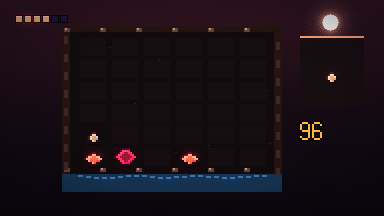
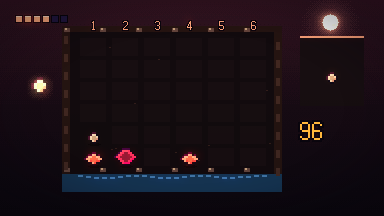
feat: make the ferry games punish the greedy line (#37)
An edge stamp on 虾印 no longer counts as an approval. 虾网 opens
with five tears and three threads, so the knot you tie matters. 虾熔
shows the shell in hand, and a points-only drop still plugs the well.

diff --git a/games/claw-stamp/src/engine.ts b/games/claw-stamp/src/engine.ts
@@ -2,8 +2,9 @@
  * 虾印 / Claw Stamp.
  *
  * A night ferry. Twelve passes, a public kind, and a fare. Edge fares pay more
- * and cost a strike if you stamp them. One pardon waives the fare. Listening
- * spends patience and only rewrites an edge when the detail says so.
+ * and cost a strike if you stamp them, and that stamp does not count as an
+ * approval. One pardon waives the fare and does count. Listening spends
+ * patience and only rewrites an edge when the detail says so.
  */
 
 import {
@@ -54,9 +55,9 @@ export interface StampState {
 const TOTAL = 12;
 
 function rules(difficulty: Difficulty): { quota: number; patience: number; strikeLimit: number } {
-  if (difficulty === 'easy') return { quota: 6, patience: 17, strikeLimit: 4 };
+  if (difficulty === 'easy') return { quota: 5, patience: 17, strikeLimit: 4 };
   if (difficulty === 'hard') return { quota: 8, patience: 13, strikeLimit: 2 };
-  return { quota: 7, patience: 14, strikeLimit: 3 };
+  return { quota: 6, patience: 14, strikeLimit: 3 };
 }
 
 function difficultyOf(value: string | undefined): Difficulty {
@@ -188,7 +189,7 @@ export function statusOf(state: StampState): StatusView {
 
 function stampDetail(kind: Kind, fare: number): string {
   if (kind === 'clear') return `盖章。合法，船资 ${fare}，不记过。`;
-  if (kind === 'edge') return `盖章。擦边，船资 ${fare}，记过 +1，连段中断。`;
+  if (kind === 'edge') return `盖章。擦边，船资 ${fare}，记过 +1，不算放行，连段中断。`;
   return '盖章。禁行，记过 +1，没有船资。';
 }
 
@@ -204,16 +205,22 @@ function listenDetail(kind: Kind): string {
   return '细看。禁行不会变，花 2 耐心。';
 }
 
+function canListen(state: StampState): boolean {
+  const resolvesLeft = state.total - state.index;
+  return state.patience - 2 >= resolvesLeft;
+}
+
 export function suggest(state: StampState): string {
   const traveler = state.traveler;
   if (!traveler || state.outcome !== 'ongoing') return 'stamp';
   if (traveler.kind === 'clear') return 'stamp';
   if (traveler.kind === 'banned') return 'refuse';
-  const need = state.approvals < state.quota;
-  const danger = state.strikes >= state.strikeLimit - 1;
-  if (need && state.pardons > 0) return 'pardon';
-  if (need && !danger) return 'stamp';
-  if (need && danger && state.patience >= 3) return 'listen';
+  const nextFare = state.next?.kind === 'edge' ? state.next.fare : 0;
+  const savePardon = state.pardons > 0 && nextFare > traveler.fare;
+  if (savePardon && canListen(state)) return 'listen';
+  if (savePardon) return 'refuse';
+  if (state.pardons > 0) return 'pardon';
+  if (canListen(state)) return 'listen';
   return 'refuse';
 }
 
@@ -300,7 +307,6 @@ export function act(state: StampState, actionId: string): ActionResult {
       state.fares += traveler.fare;
       bumpStreak(state);
     } else if (traveler.kind === 'edge') {
-      state.approvals += 1;
       state.fares += traveler.fare;
       state.strikes += 1;
       state.streak = 0;
@@ -394,7 +400,7 @@ export function recapOf(state: StampState) {
     timeline: state.timeline.length ? [...state.timeline] : ['还没有旅客离窗'],
     lessons: [
       `本局放行 ${state.approvals}，拦截 ${state.catches}，记过 ${state.strikes}，误判 ${state.wrongs}。`,
-      `擦边船资更高。盖擦边会记过。特赦剩余 ${state.pardons}。细看 ${state.listens} 次。`,
+      `擦边船资更高。盖擦边会记过，而且不算放行。特赦剩余 ${state.pardons}。细看 ${state.listens} 次。`,
       `最好连段 ${state.bestStreak}。合法盖章、禁行拒签和特赦才延续连段。`,
     ],
     memoryPrompt:

diff --git a/games/claw-net/tests/engine.test.ts b/games/claw-net/tests/engine.test.ts
@@ -34,7 +34,7 @@ describe('claw-net engine', () => {
     expect(fresh(2).rng).toHaveLength(4);
     const again = fresh(4);
     expect(JSON.parse(JSON.stringify(again))).toEqual(again);
-    expect(countKind(fresh(1).cells, 'torn')).toBe(3);
+    expect(countKind(fresh(1).cells, 'torn')).toBe(5);
   });
 
   it('wets a sound knot between two tears and rips a wet knot on the next pulse', () => {
@@ -61,7 +61,7 @@ describe('claw-net engine', () => {
     const x = torn % 5;
     const y = Math.floor(torn / 5);
     act(state, `tie:${x}:${y}`);
-    expect(state.thread).toBe(11);
+    expect(state.thread).toBe(2);
     act(state, 'haul');
     expect(state.basket).toBeGreaterThan(0);
     expect(state.night).toBe(2);
@@ -94,6 +94,22 @@ describe('claw-net engine', () => {
     }
     expect(mended).toBeGreaterThanOrEqual(10);
     expect(rushed).toBeLessThan(mended);
+    let ordered = 0;
+    for (let seed = 1; seed <= 12; seed += 1) {
+      const state = fresh(seed);
+      let guard = 0;
+      while (state.outcome === 'ongoing' && guard < 80) {
+        const index =
+          state.thread > 0
+            ? state.cells.findIndex((cell) => cell === 'torn' || cell === 'wet')
+            : -1;
+        const id = index >= 0 ? `tie:${index % 5}:${Math.floor(index / 5)}` : 'haul';
+        act(state, id);
+        guard += 1;
+      }
+      if (state.outcome === 'won') ordered += 1;
+    }
+    expect(ordered).toBeLessThanOrEqual(3);
   });
 
   it('scores zero on abort and pays the documented win formula', () => {

diff --git a/games/claw-stamp/tests/engine.test.ts b/games/claw-stamp/tests/engine.test.ts
@@ -56,11 +56,12 @@ describe('claw-stamp engine', () => {
     expect(state.strikes).toBe(1);
     expect(state.streak).toBe(0);
     expect(state.fares).toBe(6);
+    expect(state.approvals).toBe(0);
     state.traveler = { name: '网尾', kind: 'edge', fare: 5 };
     act(state, 'pardon');
     expect(state.pardons).toBe(0);
     expect(state.fares).toBe(6);
-    expect(state.approvals).toBe(2);
+    expect(state.approvals).toBe(1);
     expect(state.streak).toBe(1);
     expect(actionsOf(state).some((action) => action.id === 'pardon')).toBe(false);
   });
@@ -115,6 +116,21 @@ describe('claw-stamp engine', () => {
     }
     expect(careful).toBeGreaterThanOrEqual(12);
     expect(greedy).toBeLessThan(careful);
+    let fare = 0;
+    for (let seed = 1; seed <= 12; seed += 1) {
+      const fareLine = play(fresh(seed), (state) => {
+        const traveler = state.traveler;
+        if (!traveler || traveler.kind === 'clear') return 'stamp';
+        if (traveler.kind === 'banned') return 'refuse';
+        return traveler.fare >= 5 ? 'stamp' : 'refuse';
+      });
+      if (fareLine.outcome === 'won') fare += 1;
+    }
+    let carefulDozen = 0;
+    for (let seed = 1; seed <= 12; seed += 1) {
+      if (play(fresh(seed), suggest).outcome === 'won') carefulDozen += 1;
+    }
+    expect(carefulDozen).toBeGreaterThanOrEqual(fare + 5);
   });
 
   it('scores zero until the run ends, including an abort', () => {

diff --git a/games/claw-net/src/engine.ts b/games/claw-net/src/engine.ts
@@ -48,9 +48,9 @@ function rules(difficulty: Difficulty): {
   threadGain: number;
   quota: number;
 } {
-  if (difficulty === 'easy') return { thread: 14, threadCap: 16, threadGain: 4, quota: 28 };
-  if (difficulty === 'hard') return { thread: 10, threadCap: 12, threadGain: 2, quota: 44 };
-  return { thread: 12, threadCap: 14, threadGain: 3, quota: 36 };
+  if (difficulty === 'easy') return { thread: 8, threadCap: 10, threadGain: 3, quota: 24 };
+  if (difficulty === 'hard') return { thread: 4, threadCap: 6, threadGain: 1, quota: 32 };
+  return { thread: 3, threadCap: 6, threadGain: 2, quota: 24 };
 }
 
 function idx(x: number, y: number): number {
@@ -115,7 +115,7 @@ export function createRun(options: { seed: number; difficulty?: string }): NetSt
   const cells: Knot[] = Array.from({ length: NET_W * NET_H }, () => 'tied');
   for (const index of rng.sample(
     cells.map((_, i) => i),
-    3,
+    5,
   ))
     cells[index] = 'torn';
   return {

diff --git a/games/claw-melt/tests/engine.test.ts b/games/claw-melt/tests/engine.test.ts
@@ -102,6 +102,25 @@ describe('claw-melt engine', () => {
     }
     expect(careful).toBeGreaterThanOrEqual(8);
     expect(stack).toBeLessThan(careful);
+    let points = 0;
+    for (let seed = 1; seed <= 12; seed += 1) {
+      const greedy = fresh(seed);
+      let guard = 0;
+      while (greedy.outcome === 'ongoing' && guard < 40) {
+        let best = 'drop:0';
+        let bestPoints = -1;
+        for (let x = 0; x < 6; x += 1) {
+          const preview = previewDrop(greedy, x);
+          if (!preview || preview.points <= bestPoints) continue;
+          bestPoints = preview.points;
+          best = `drop:${x}`;
+        }
+        act(greedy, best);
+        guard += 1;
+      }
+      if (greedy.outcome === 'won') points += 1;
+    }
+    expect(points).toBeLessThanOrEqual(2);
   });
 
   it('scores zero on an abort and a positive integer after a finished run', () => {

diff --git a/web/src/games/claw-melt.ts b/web/src/games/claw-melt.ts
@@ -165,6 +165,14 @@ function createScene(): GameScene<MeltState> {
       if (next) drawText(g, next, 332, 40, { color: '#fff4d6', align: 'center' });
       const name = say(f, SHELL[state.piece] ?? '');
       if (name) drawText(g, name, 20, 48, { color: '#fff4d6', align: 'left', outline: '#140c08' });
+      blit(g, shell(state.piece), 40, 86, { scale: 3, anchor: 'c' });
+      glow(g, 40, 86, 16, '#ffb08a', 0.35);
+      for (let x = 0; x < WELL_W; x += 1) {
+        drawText(g, String(x + 1), OX + x * CW + CW / 2, OY - 16, {
+          color: f.focus?.id === `drop:${x}` ? '#fff6dc' : '#ffb08a',
+          align: 'center',
+        });
+      }
       pips(g, 16, 16, state.winSize, state.maxSize, '#ffb08a', -1, t);
       drawText(g, String(state.points), 300, 120, { color: '#ffc24a', align: 'left', scale: 2 });
     },

diff --git a/docs/plans/2026-11-15-ferry-depth.md b/docs/plans/2026-11-15-ferry-depth.md
@@ -1,0 +1,41 @@
+# Ferry depth — 虾印, 虾熔, 虾网, 虾节
+
+## Goal
+
+After playing the eight games on the live site, the weakest thing on the first four is depth, not the picture. A careful line must beat a greedy line by a wide margin, and a test has to say so.
+
+## What the live play showed
+
+- 虾印: kind and fare are public, and a fare-greedy line still sails 5 of 12 seeds. Suggest sails 11.
+- 虾熔: suggest already sails 12 of 12 against a points-only drop, but the test only stacks column 0. The current shell is invisible until a column is hovered.
+- 虾网: tying knots in board order wins the same 12 seeds as suggest. Thread is long enough that the knot you pick does not matter.
+- 虾节: suggest knocks out 12 of 12. Committing the resting phrase wins 0. No test says that.
+
+## Scope
+
+- 虾印: stamping an edge keeps the fare and the strike, and does not count as an approval. Suggest pardons or rereads instead of stamping the edge.
+- 虾熔: test the points-only line. Draw the current shell and the column numbers without a hover.
+- 虾网: shorter thread, one more opening tear. Suggest still fills the basket. A board-order tie does not.
+- 虾节: test an immediate commit against suggest.
+
+No catalog ids, no relay allowlist, no other games.
+
+## Assumptions
+
+- The public kind on 虾印 stays public. The new decision is whether the fare is worth a strike that does not fill the quota.
+- Score formulas stay. Only what counts as an approval changes.
+
+## Risks
+
+- A tighter net can make suggest lose. The survey has to stay at least 8 of 12 before the test is locked.
+- Edge-stamp tests that expected an approval need the new count.
+
+## Checklist
+
+- [x] Stamp rule and suggest
+- [x] Net thread and opening tears
+- [x] Melt shell, column numbers, points-only test
+- [x] Beat commit test (already in the engine suite: four rests win 0)
+- [x] READMEs, changelog, i18n
+- [x] lint, check, test
+- [x] One live-shaped `new → act → recap` on the dev server

diff --git a/games/claw-net/README.md b/games/claw-net/README.md
@@ -2,7 +2,7 @@
 
 `claw-net`
 
-五乘四的夜网。两个破洞挨着，完好的结会变湿；湿结再挨着破洞就会裂开；湿结旁边没有破洞时会干回去。补一结花一根线。剪一结不再蔓延，这格也没有鱼。收网按完好减两倍破洞计鱼，然后夜里加线并新开两个破洞。破洞到八张网就破。
+五乘四的夜网，开局五个破洞。两个破洞挨着，完好的结会变湿；湿结再挨着破洞就会裂开；湿结旁边没有破洞时会干回去。线不够把每个洞都补上，所以要先补会裂开的那一结。补一结花一根线。剪一结不再蔓延，这格也没有鱼。收网按完好减两倍破洞计鱼，然后夜里加线并新开两个破洞。破洞到八张网就破。
 
 人在网页里玩。Agent 通过同一个页面的 Web MCP（页内或远程 relay）玩。引擎是确定性的：同一 seed、同一动作序列、同一版本，结果相同。
 

diff --git a/CHANGELOG.md b/CHANGELOG.md
@@ -7,6 +7,13 @@
   prefer leans the next gust by 1. Stow shows the next three slips, and a
   mark is worth spending when that order arrives after the spoil age. Score
   formulas are unchanged. Those two games are `meta.version` `4.1.0`.
+- `虾印` no longer counts an edge stamp as an approval. The fare and the
+  strike still land. Suggest pardons or rereads that guest. A line that
+  stamps high fares loses the night.
+- `虾网` opens with five tears and a shorter thread. Suggest still fills
+  the basket. Tying knots in board order does not.
+- `虾熔` shows the shell in hand and numbers the columns. A points-only
+  drop still plugs the well.
 - `虾礁 (Claw Reef)` and `虾灯 (Claw Lamp)` now play on bespoke boards.
   A reef mark still counts only after the push, and an urchin on that cell is
   a sweep unless you anchor. Lamp's widest post blocks the posts that seal

diff --git a/games/claw-stamp/README.md b/games/claw-stamp/README.md
@@ -2,7 +2,7 @@
 
 `claw-stamp`
 
-夜渡窗口，十二位旅客。合法就盖章，禁行就拒签。擦边的船资更高，盖下去记过并打断连段。特赦一次，免掉船资。细看花两耐心，只有擦边会改成合法。放行够数才开船。
+夜渡窗口，十二位旅客。合法就盖章，禁行就拒签。擦边的船资更高，盖下去记过、打断连段，而且不算一次放行。特赦一次，免掉船资，算放行。细看花两耐心，只有擦边会改成合法。放行够数才开船。
 
 人在网页里玩。Agent 通过同一个页面的 Web MCP（页内或远程 relay）玩。引擎是确定性的：同一 seed、同一动作序列、同一版本，结果相同。
 

diff --git a/docs/plans/README.md b/docs/plans/README.md
@@ -4,6 +4,7 @@ Write a new plan here before a large change: a new game, an engine rewrite, an
 MCP or leaderboard change, or a docs restructure.
 
 Current working plans: [`2026-11-15-raft-stow-feel.md`](2026-11-15-raft-stow-feel.md),
+[`2026-11-15-ferry-depth.md`](2026-11-15-ferry-depth.md),
 [`2026-11-15-reef-lamp-feel.md`](2026-11-15-reef-lamp-feel.md),
 [`2026-11-14-jam-art-path.md`](2026-11-14-jam-art-path.md),
 [`2026-11-14-jam-art-ferry.md`](2026-11-14-jam-art-ferry.md),
